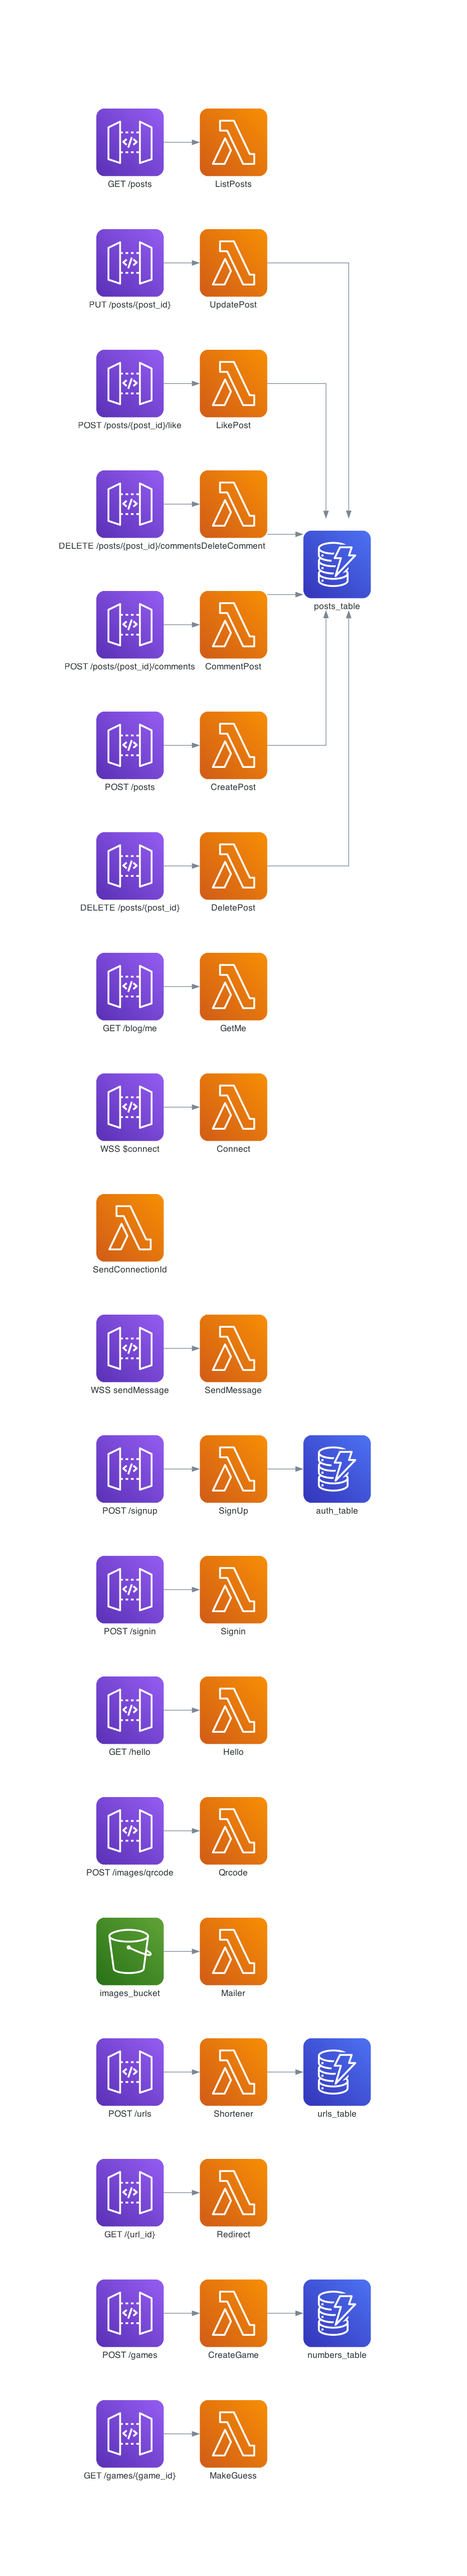
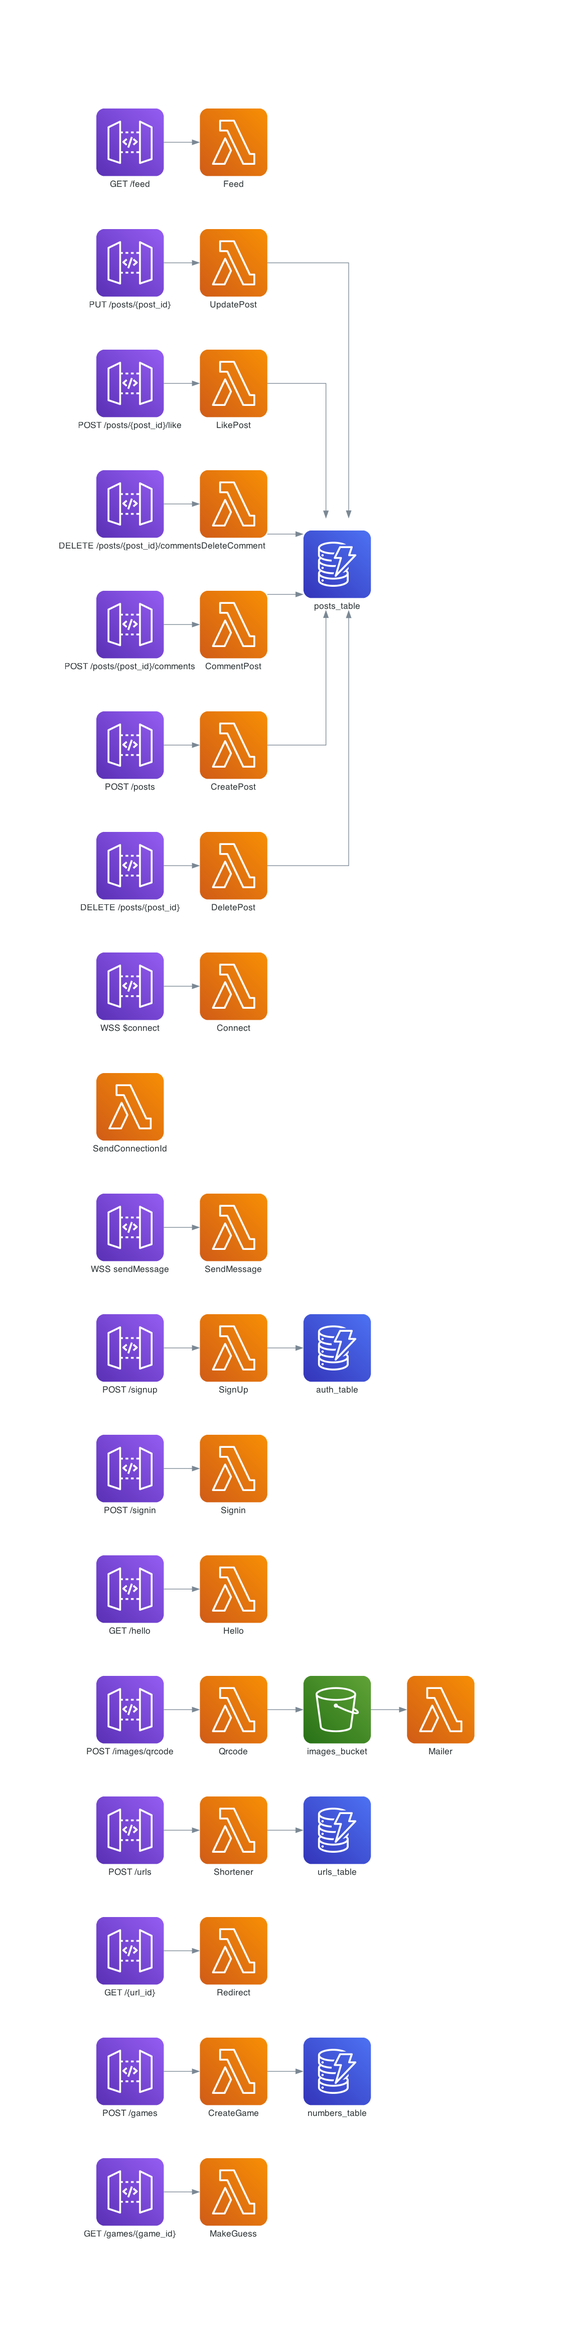
finishing web crawler project

Changed region(s): [[0.1557, 0.0312, 0.8099, 0.9675], [0.6853, 0.7178, 0.841, 0.749]]

diff --git a/docs/examples/functions/images/qrcode/config.py b/docs/examples/functions/images/qrcode/config.py
@@ -17,4 +17,4 @@ class QrcodeConfig:
 
         services.api_gateway.create_endpoint("POST", "/images/qrcode", function, public=True)
 
-        services.s3.images_bucket.grant_write(function)
+        services.s3.grant_write("images_bucket", function)
